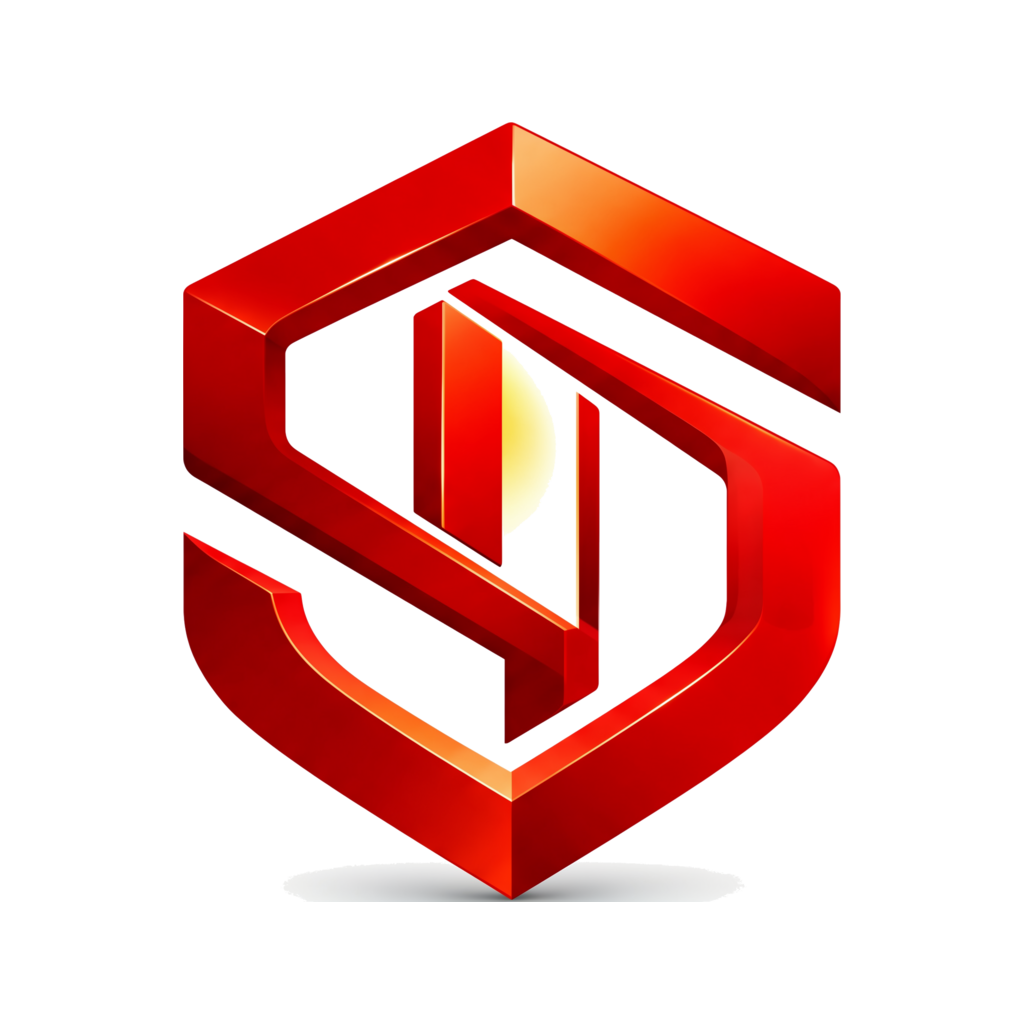
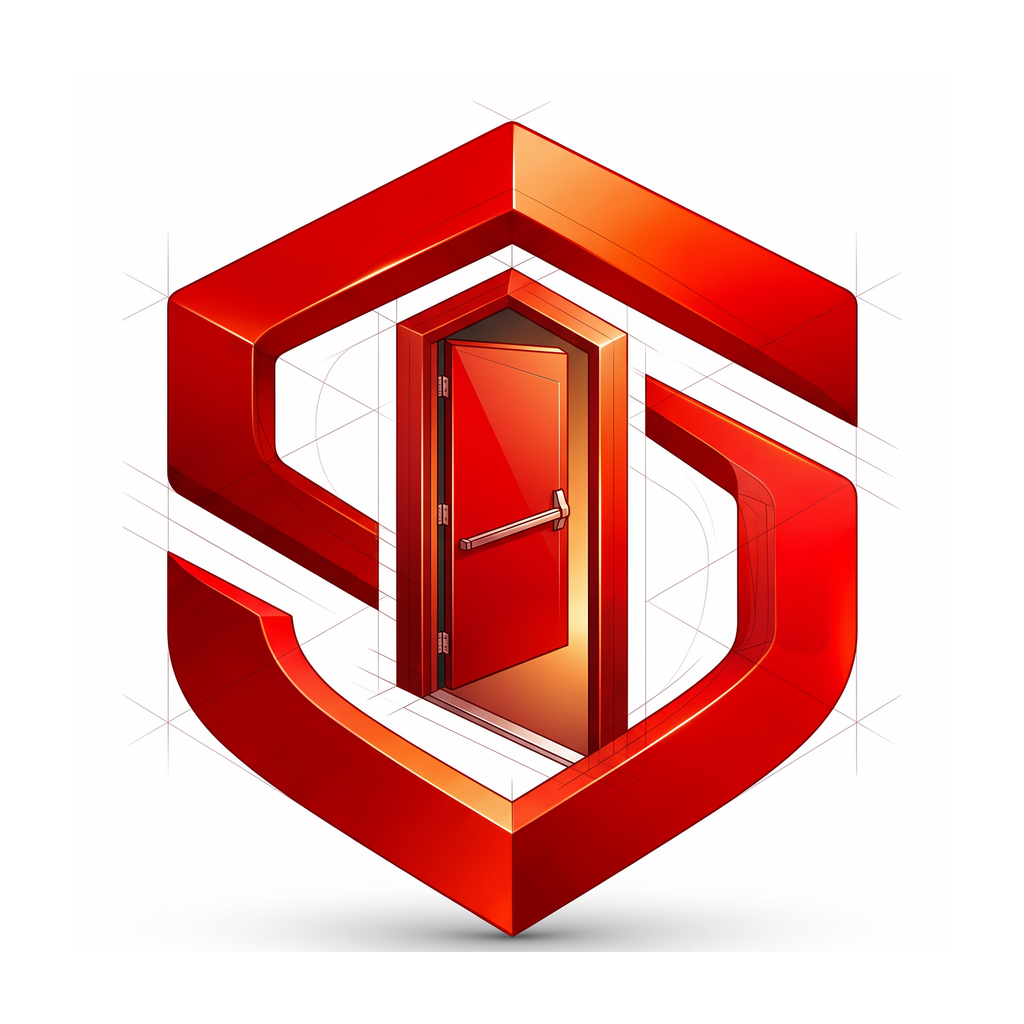
باب هروب واقعي (إطار، مفصّلات، ذراع دفع) + خطوط هندسية إنشائية

diff --git a/index.html b/index.html
@@ -124,7 +124,7 @@
         <span>ESCAPE DOOR</span>
       </div>
     </div>
-    <div class="pill">نسخة مطوّرة · بدون أشخاص · تجريدي</div>
+    <div class="pill">باب هروب حقيقي · خطوط هندسية · بلا أشخاص</div>
   </header>
 
   <section class="hero">
@@ -133,8 +133,9 @@
       <h1>شريط <em>S</em> سداسي…<br>وبابُ هروبٍ ينفتح على الضوء</h1>
       <p>
         نفس اللغة البصرية للشعار الأصلي: شريط ثلاثي الأبعاد لامع يشكّل حرف S داخل سداسي.
-        التطوير يضيف <b>باب خروج</b> في قلب الشكل: لوح يدور على محوره، وفتحة تسمح للضوء بالتسرّب
-        إلى الفراغ السالب — حرية تُقرأ من دون أي عنصر بشري.
+        في مركزه الآن <b>باب هروب حقيقي</b>: إطار معماري، ولوح بمفصّلات ظاهرة وذراع دفع أفقي،
+        مفتوح قليلاً ليسمح للضوء بالتسرّب — وتحيط به <b>خطوط هندسية إنشائية</b> رقيقة تمنح
+        الشكل دقّة التصميم الصناعي، كل ذلك من دون أي عنصر بشري.
       </p>
     </div>
     <div class="stage">
@@ -152,12 +153,12 @@
     <div class="card">
       <span class="num">02 — الحركة</span>
       <h3>شريط S بلا نهاية</h3>
-      <p>الشريط يدور على نفسه من الأعلى إلى الأسفل، فيقرأ كحرف S وكمسار مستمر في الوقت نفسه.</p>
+      <p>الشريط يدور على نفسه من الأعلى إلى الأسفل، فيقرأ كحرف S وكمسار مستمر في الوقت نفسه، وتحدّه خطوط إنشائية رقيقة.</p>
     </div>
     <div class="card">
       <span class="num">03 — المعنى</span>
-      <h3>الباب والضوء</h3>
-      <p>لوح الباب مائل على محوره، وخلفه هالة ضوء دافئة تتسرّب من الشق: مخرجٌ متاح، لا سجين ولا أشخاص.</p>
+      <h3>باب هروب حقيقي</h3>
+      <p>إطار ولوح بمفصّلات وذراع دفع أفقي، مفتوح جزئياً ليخرج منه الضوء: مخرجٌ متاح، بلا أشخاص.</p>
     </div>
   </div>
 
@@ -196,21 +197,23 @@
         <li>حافظ على مساحة حرة حول الشعار لا تقل عن ربع عرضه.</li>
         <li>استخدمه على أبيض أو داكن جداً؛ الشعار عالي التباين.</li>
         <li>استخدم الأيقونة للأحجام الصغيرة والشاشات.</li>
+        <li>أبقِ الخطوط الهندسية رقيقة ورمادية فاتحة في الطباعة.</li>
       </ul>
     </div>
     <div class="rule">
       <h4><span class="dot no"></span> لا تفعل</h4>
       <ul>
         <li>لا تُضف أشخاصاً أو ظلالاً داخل فتحة الباب.</li>
-        <li>لا تغيّر زاوية دوران الباب أو تلوين الضوء.</li>
+        <li>لا تغيّر زاوية فتح الباب أو موضع ذراع الدفع والضوء.</li>
         <li>لا تضغط الشعار أو تمدّده أو تُدِرْه بزاوية مائلة.</li>
+        <li>لا تحذف الخطوط الهندسية في النسخ الرسمية، ولا تُضِف خطوطاً عشوائية.</li>
       </ul>
     </div>
   </div>
 
   <footer>
     <span>ملفات الشعار في مجلد <code>assets/</code> — الشعار الأصلي محفوظ في <code>assets/source/</code></span>
-    <span>نسخة مطوّرة · تجريد كامل · بلا أشخاص</span>
+    <span>باب هروب واقعي · خطوط هندسية · تجريد كامل بلا أشخاص</span>
   </footer>
 
 </div>

diff --git a/README.md b/README.md
@@ -1,8 +1,8 @@
 # تطوير الشعار — باب الهروب (Escape Door)
 
-نسخة مطوّرة من شعار الشريط السداسي `S`، تُضيف مفهوم **باب الهروب** بشكل تجريدي كامل،
-من دون أي عنصر بشري: لوح باب يدور على محوره داخل مركز الشكل، وفتحة شقّ يخرج منها الضوء
-إلى الفراغ السالب.
+نسخة مطوّرة من شعار الشريط السداسي `S`، تُضيف **باب هروب واقعياً** بروح هندسية نظيفة،
+من دون أي عنصر بشري: إطار معماري ولوحٌ بمفصّلات ظاهرة وذراع دفع أفقي، مفتوح جزئياً ليخرج
+منه الضوء، وتحيط بالشكل خطوط إنشائية رقيقة تعطيه دقّة المخططات الهندسية
 
 ## المفهوم
 
@@ -10,16 +10,19 @@
 | --- | --- |
 | الشريط السداسي `S` | قوة، حماية، واستمرار الحركة (المسار يدور ولا ينتهي) |
 | فتحتا الشكل من الجانبين | لا حصار — الفراغ السالب يوحي بالانفتاح |
-| لوح الباب المائل | الخروج متاح دائماً، بلا مفصل ظاهر ولا شخص يعبره |
+| إطار الباب ولوحه | باب هروب حقيقي (Emergency Exit) بأبعاد معمارية واضحة |
+| المفصّلات وذراع الدفع | تفاصيل وظيفية تُقرأ فوراً كباب طوارئ، وبلا أي شخص يعبره |
+| الخطوط الهندسية الرقيقة | دقّة إنشائية (Construction lines) تُثبّت الشكل وتُبرز المحاور |
 | هالة الضوء الدافئة | الأمل/المخرج، وتعمل كتوقيع لوني مميّز للعلامة |
 
 ## الملفات
 
 ```
 assets/
-  logo-escape-door.png   # النسخة الأساسية (1920×2144) — خلفية بيضاء + ظل ناعم
+  logo-escape-door.png   # النسخة الأساسية (2048×2048) — خلفية بيضاء + ظل ناعم
   app-icon.png           # أيقونة تطبيق 1024×1024
-  source/logo-original.jpg  # الشعار الأصلي قبل التطوير
+  source/logo-original.jpg     # الشعار الأصلي قبل التطوير
+  source/logo-abstract-door.png # النسخة التجريدية السابقة (للمقارنة)
 index.html               # لوحة عرض الهوية (تصميم، تنويعات، ألوان، قواعد استخدام)
 ```
 
